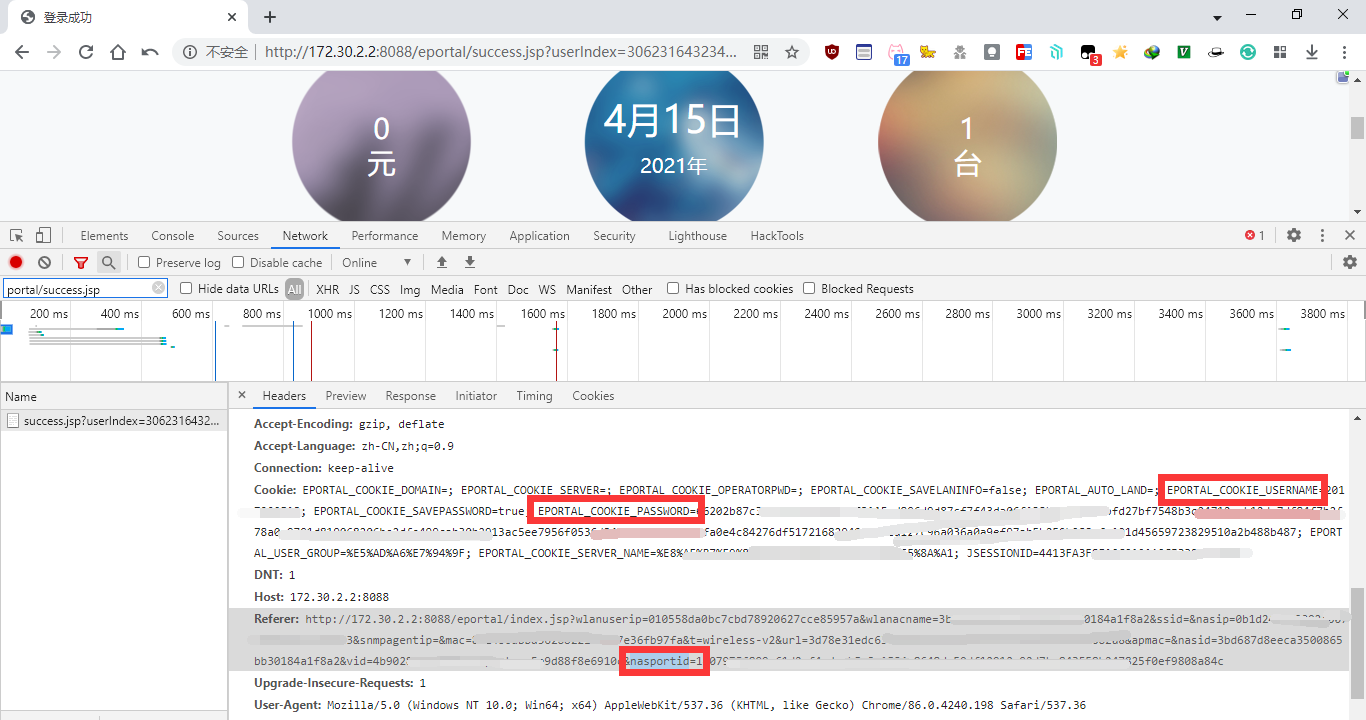
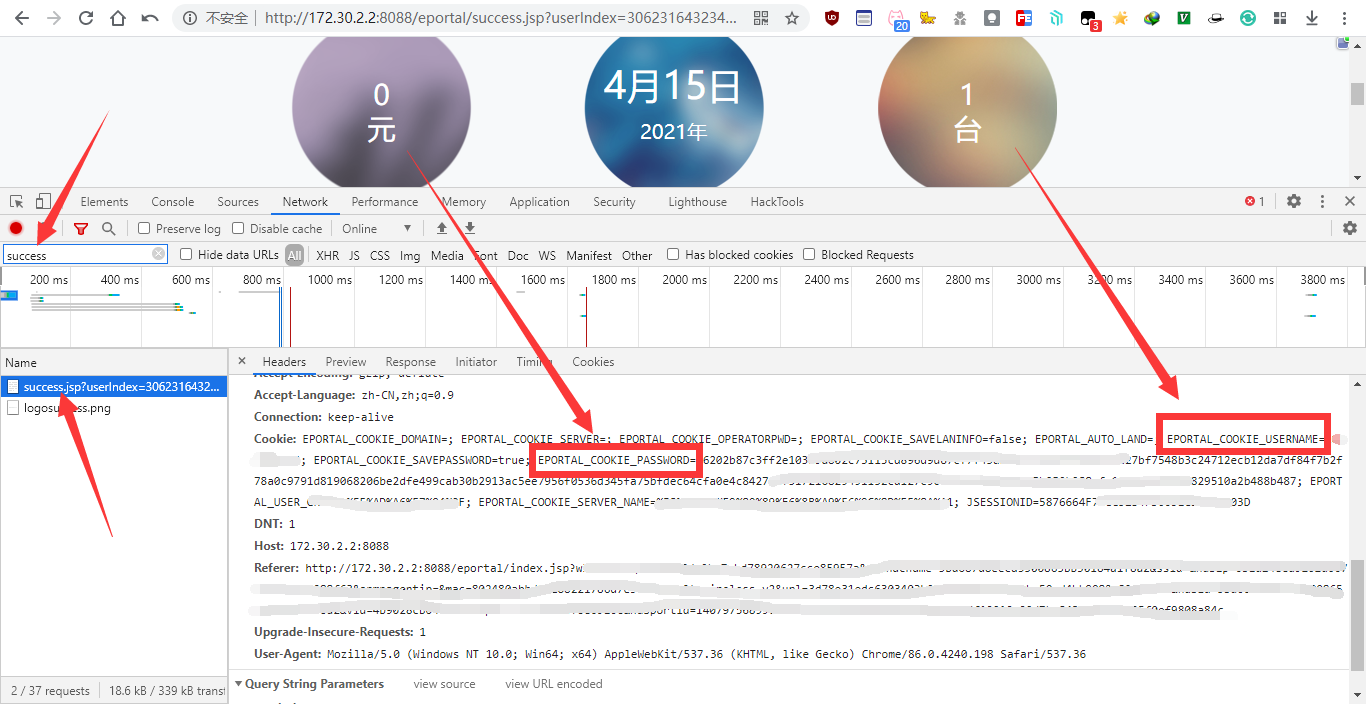
增加登录逻辑判断和精简参数

diff --git a/README.md b/README.md
@@ -2,7 +2,7 @@
 # 聊城大学校园网(LCU-WIFI)登录Shell脚本
 - 此脚本仅供学习交流使用
 - 用法为
-  1. 在登录前按F12抓包，登录成功后找`http://172.30.2.2:8088/eportal/success.jsp?userIndex****`的Cookie和Referer
+  1. 在 [登录](http://172.30.2.2:8088) 前按F12抓包，登录成功后找`http://172.30.2.2:8088/eportal/success.jsp?userIndex****`的Cookie
   2. 下载脚本 [login](./login.sh) ，将所需值填入对应位置后运行脚本即可
 
 ```text
@@ -10,8 +10,6 @@
 userId=2017*****8
 # Cookie内EPORTAL_COOKIE_PASSWORD的值，即 新版密码加密后的值，为256位
 password=66202****488b487
-# Referer内nasportid的值，不清楚，填就是了，为80位
-nasportid=14079****08a84c
 ```
 
 ![抓参数参考图](./F12.png)
